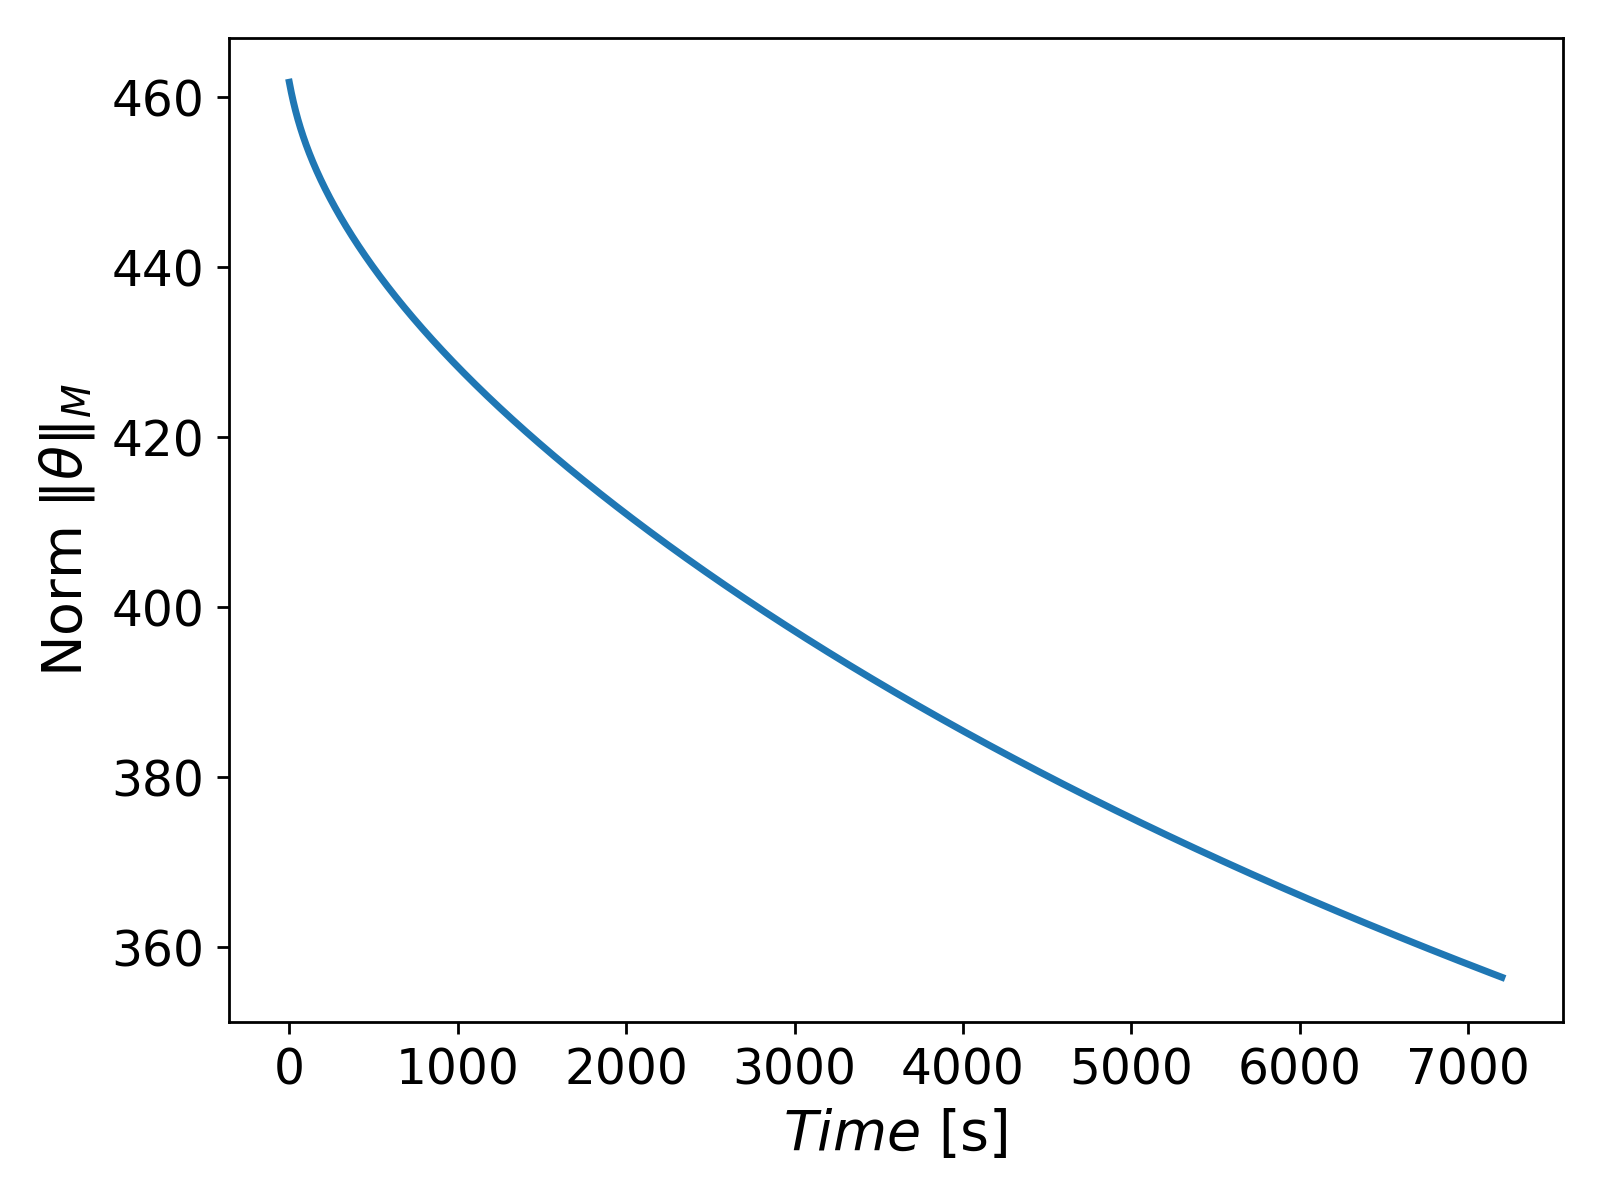
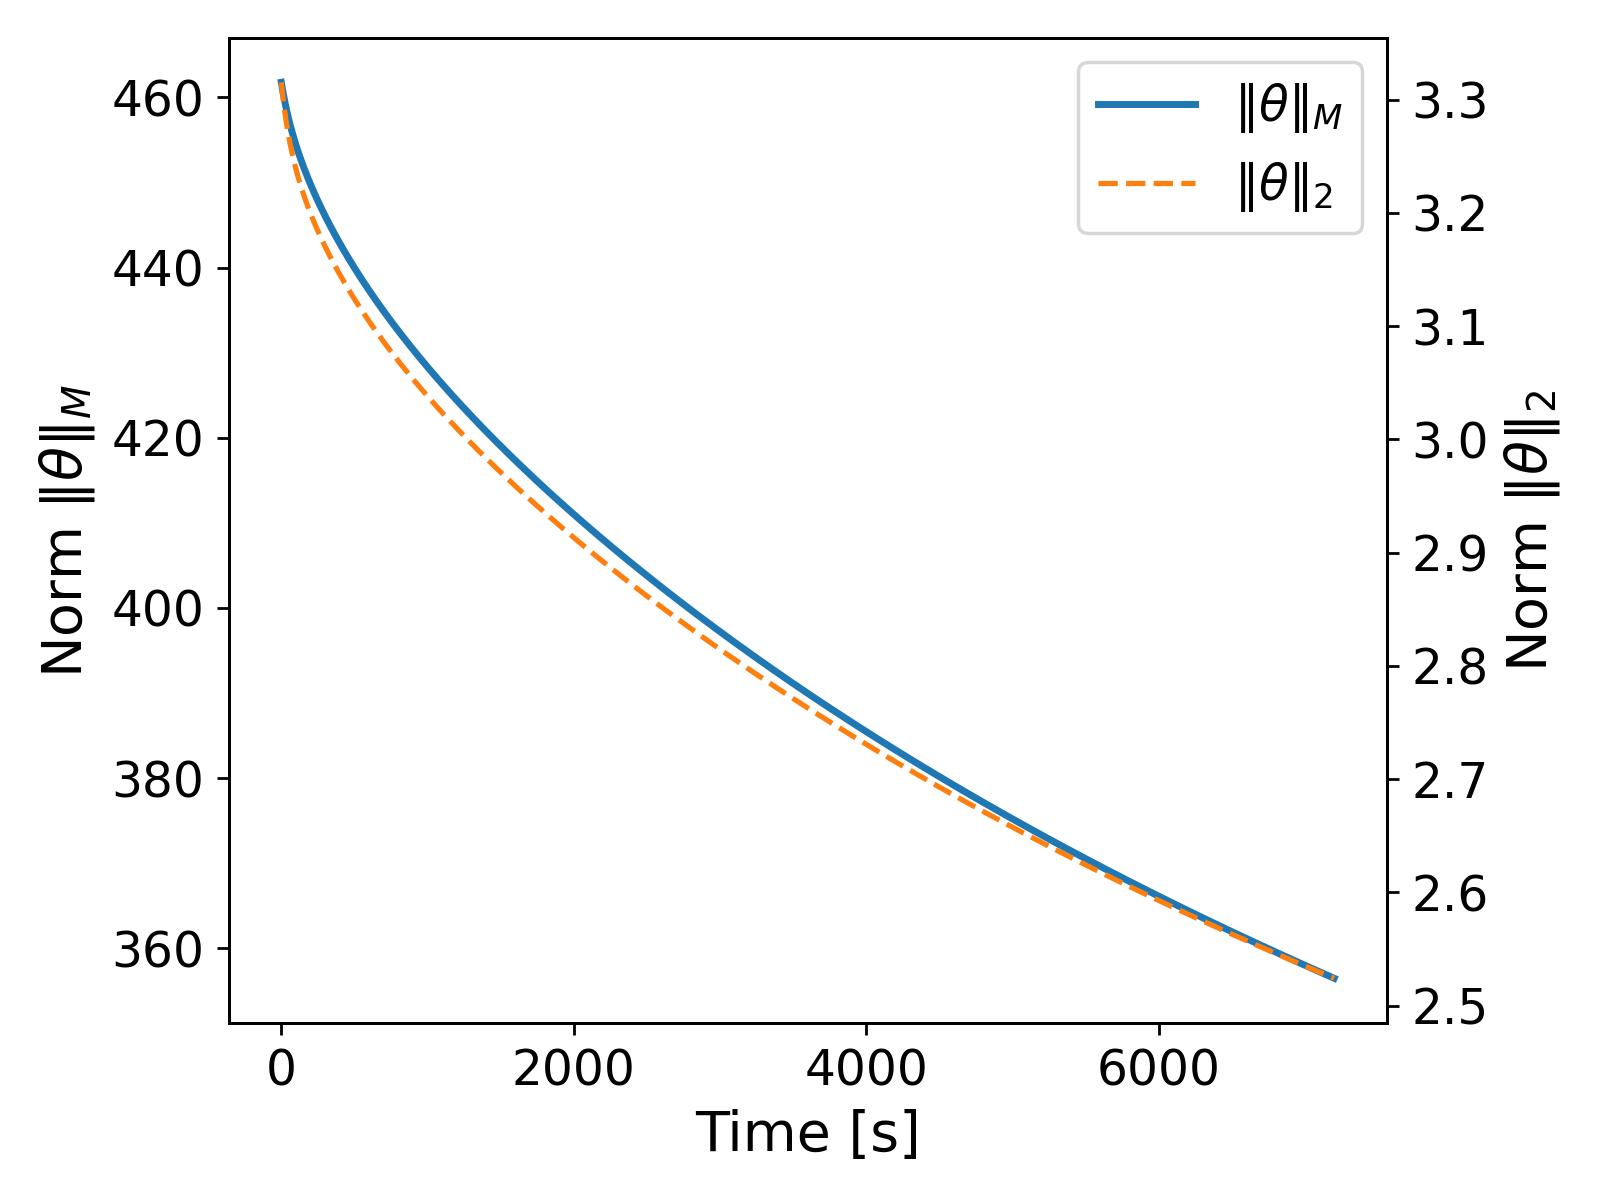
WIP: oscillations M matrix

diff --git a/_talks/oscillations_m_matrix.md b/_talks/oscillations_m_matrix.md
@@ -150,20 +150,22 @@ Figure 3. Results showing the temperature profile near the start of the simulati
 
 <br>
 
-It can be observed that now for the first few time steps, spurious oscillations arise in the temperature profile as shown in Fig. 3. (left). The oscillations eventually die out as time progresses, and we get a smooth solution as in the case of $\tau = 3600$. If we look at the $M$-norm values of the temperature, $\\| \theta\\|_M$, over time, we get a monotonically decreasing curve, as expected from Lemma 1; see Fig. 4. 
+It can be observed that now for the first few time steps, spurious oscillations arise in the temperature profile as shown in Fig. 3. (left). The oscillations eventually die out as time progresses, and we get a smooth solution as in the case of $\tau = 3600$. If we look at the $M$-norm values of the temperature, $\\| \theta\\|_M$, over time, we get a monotonically decreasing curve, as expected from Lemma 1; see Fig. 4 (left). We get the same behaviour of the energy norm $\\| \theta \\|_2$.  
 
 <div align="center">
-<img src='/images/m_matrix_oscillations/norm_homogeneous_small_time_step.png' width='450' height='450'>
+<img src='/images/m_matrix_oscillations/norm_homogeneous_small_time_step.png' width='380' height='380'>
+<img src='/images/m_matrix_oscillations/norm_linf_homogeneous_small_time_step.png' width='380' height='380'>
 </div>
 
 <div align = "center">
- Figure 4. Plot showing the values $\\| \theta \\|_M$ over time.
+ Figure 4. Plot showing the values $\\| \theta \\|_M$ and $\\ \theta \\|_2$ (left) and the values of $\\| \theta \\|_\infty$ over time (right).
 </div>
 
 <br>
 
-This "overshooting" and "undershooting" behaviour of the function
+This "overshooting" and "undershooting" behaviour of the function has been noted in literature. In fact, the issue becomes clear when we consider the $\\| \theta \\|_\infty$ values over the time; see Fig. 4. (right). The plot shows that the values of $\\| \theta \\|_\infty$ oscillate towards the beginning of the solution before they start decreasing monotonically. That is, our numerical scheme does not guarantee the boundedness of $\\|\theta \\|_\infty$ for all time step sizes $\tau > 0$. 
 
+This "overshooting" and "undershooting" of the temperature behaviour exemplifies a violation of the *discrete maximum principle*.
 
 
 ## References
